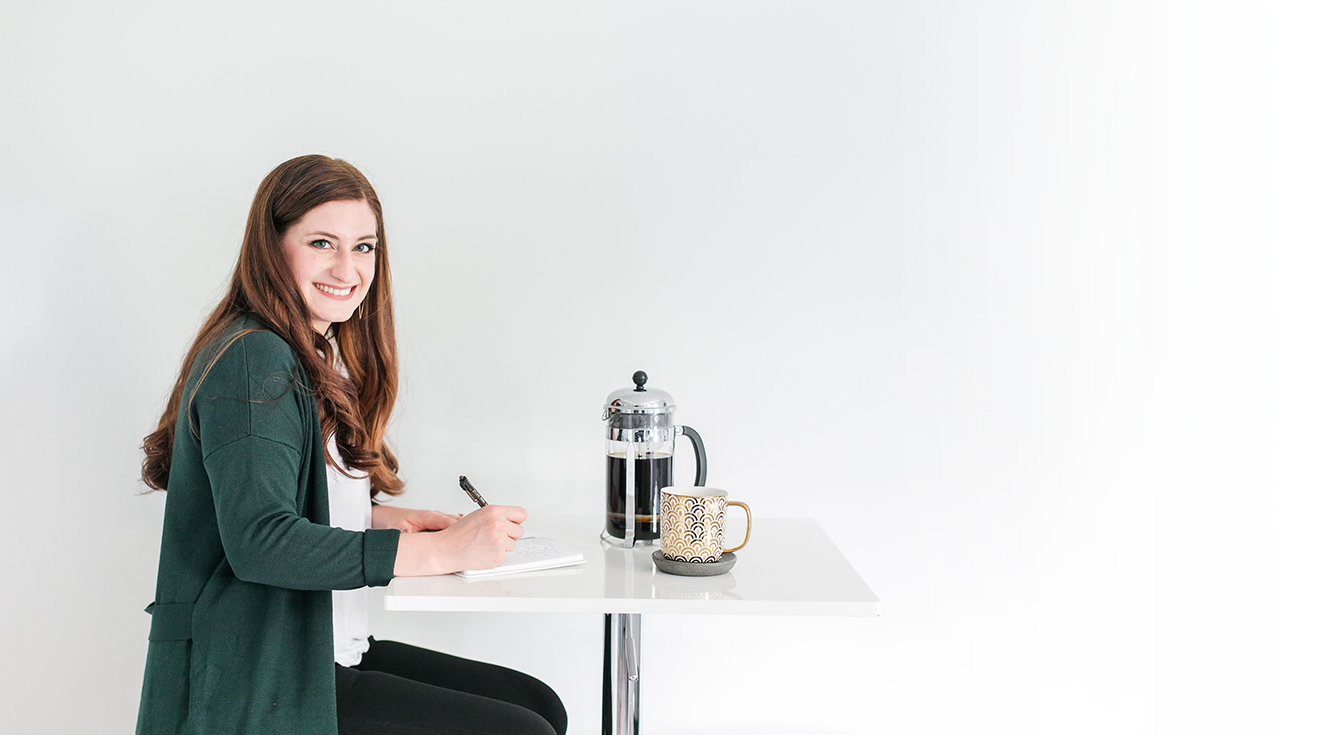
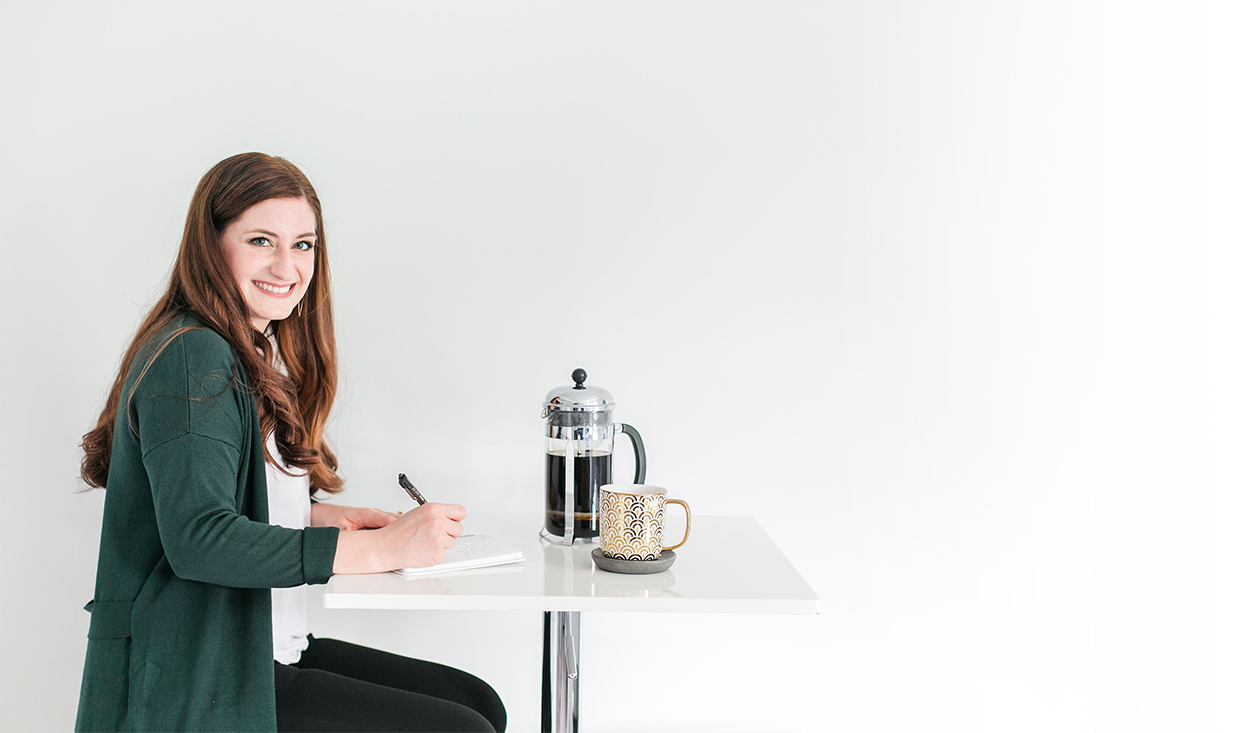
Adjust hero and remove fixed height on projects

Changed region(s): [[0.0619, 0.2101, 0.5881, 1.0]]

diff --git a/css/styles.css b/css/styles.css
@@ -465,7 +465,7 @@ p,
 
 .bg-top-home-desktop {
     background-image: url("../img/brand/hero.png");
-    background-size: auto 80rem;
+    background-size: auto 76rem;
     background-repeat: no-repeat;
 }
 
@@ -476,8 +476,8 @@ p,
 
 .bg-featured-projects {
     margin-top: 15rem;
+    margin-bottom: 18rem;
     background-color: white;
-    height: 60rem;
 }
 
 .bg-top-project {
@@ -1017,7 +1017,7 @@ img {
     }
     .text-box-right {
         margin-left: 65%;
-        margin-right: 10%;
+        /* margin-right: 10%; */
     }
     .roles-tools {
         grid-template-columns: 50% 50%;
@@ -1103,8 +1103,8 @@ img {
         max-height: 60rem;
     }
     .text-box-right {
-        padding: 4%;
-        margin-left: 55%;
+        padding: 6%;
+        margin-left: 53%;
         background-color: rgba(255, 255, 255, 0.9);
     }
     .text-triangle {
@@ -1331,7 +1331,7 @@ img {
         font-size: 2.4rem;
     }
     .text-box-right {
-        margin-left: 60%;
+        margin-left: 50%;
         margin-right: 8%;
         background-color: transparent;
     }
@@ -1345,7 +1345,7 @@ img {
         font-size: 2.4rem;
     }
     .text-box-right {
-        margin-left: 52%;
+        margin-left: 50%;
         margin-right: 8%;
         background-color: transparent;
     }

diff --git a/index.html b/index.html
@@ -128,6 +128,8 @@
                         <p class="large-text center-text">Based in Raleigh, NC.</p>
                     </div>
                 </div>
+                <br>
+                <img class="icon" height="56" width="56" src="icons/arrow-down-s-line.svg" aria-hidden="true" />
             </section>
 
 
